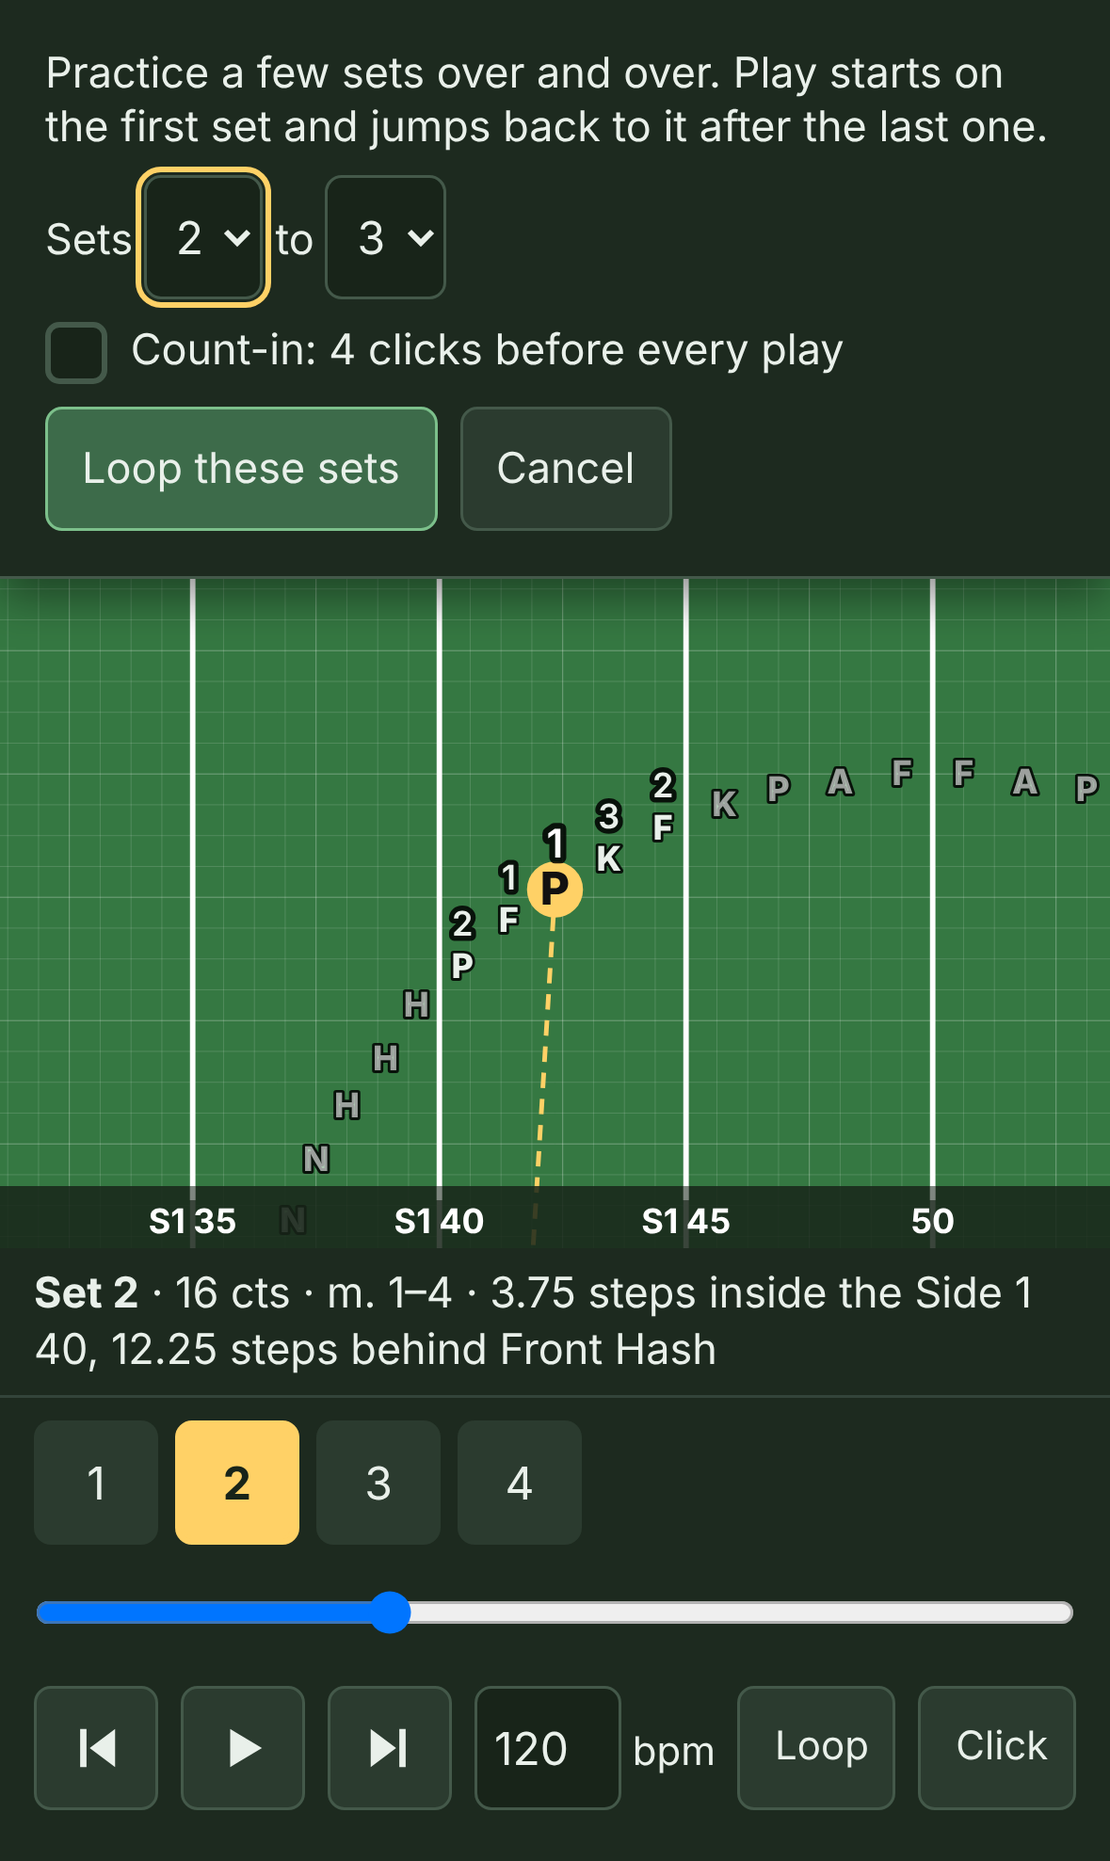
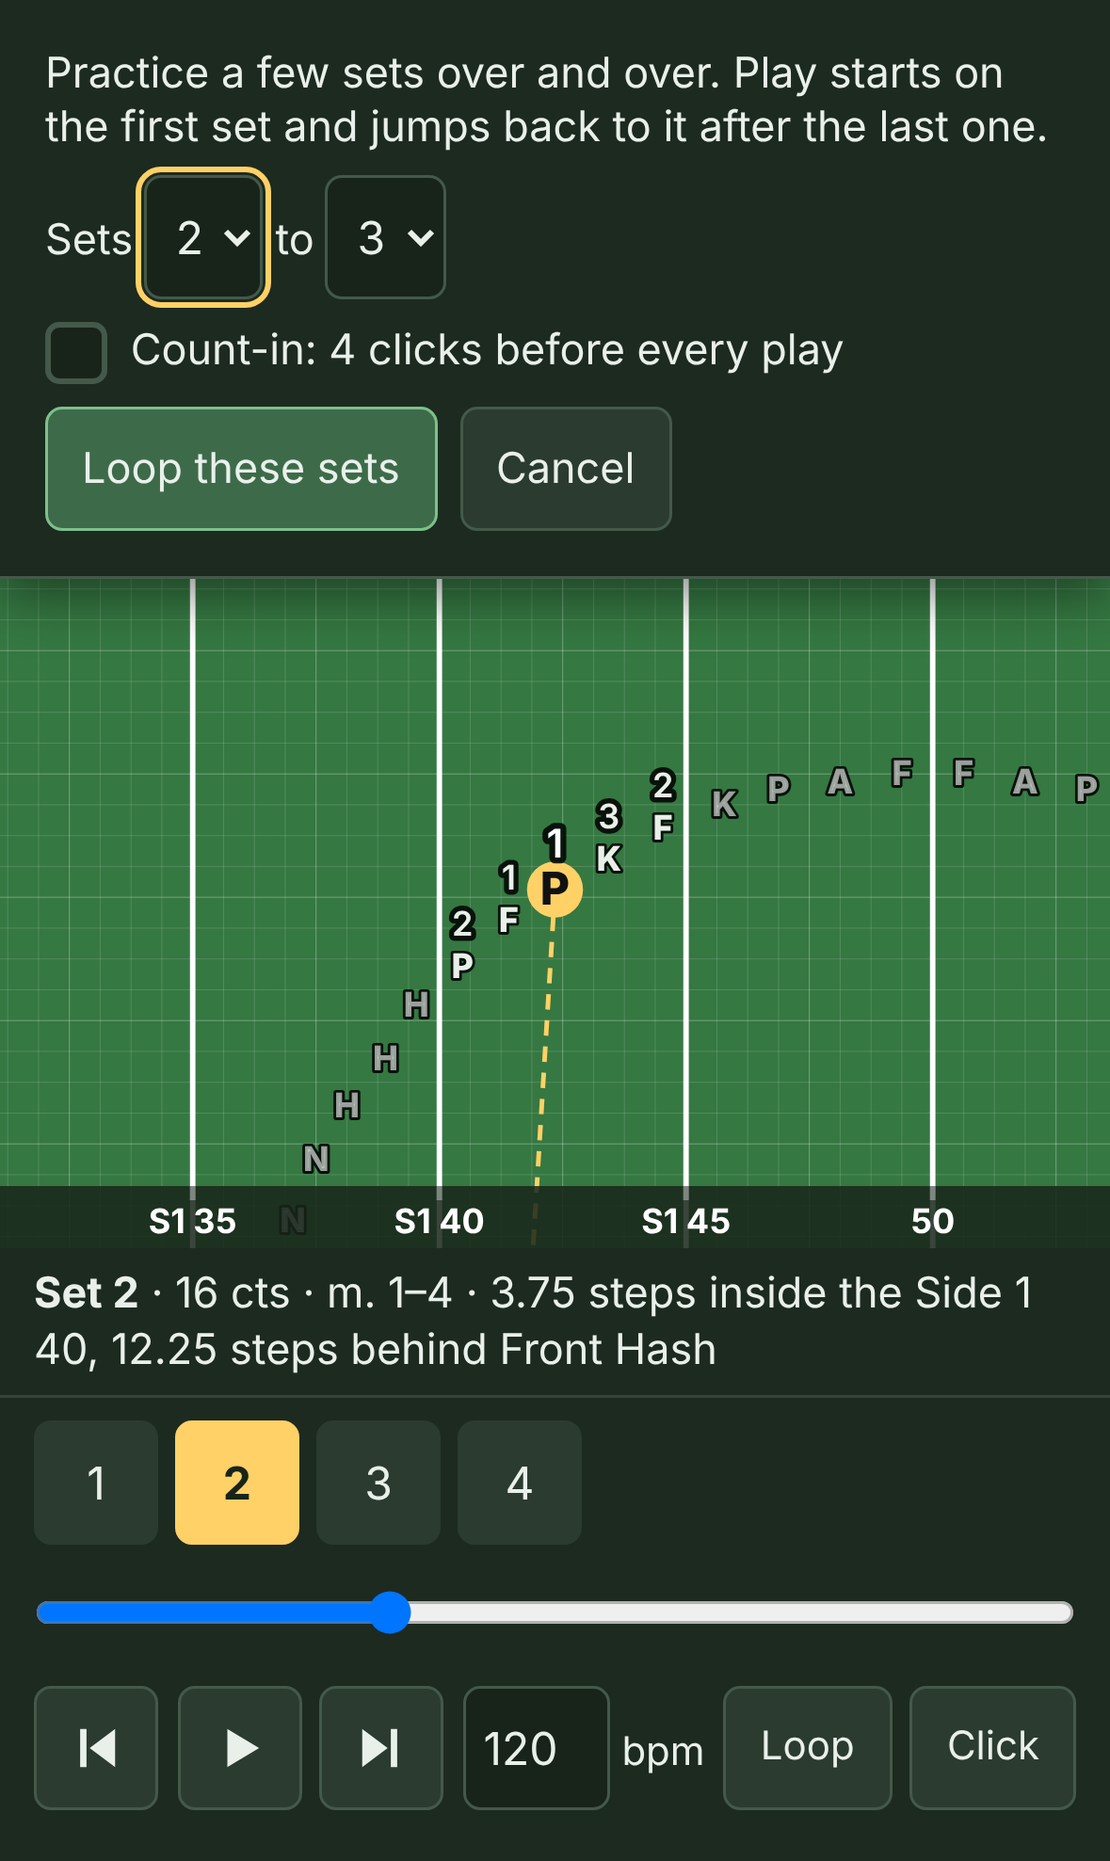
A first accessibility pass: screen reader and big text
- Editor: menu panels are labeled regions (not menus), and the save status
  button's name includes its visible words. axe now reports nothing on the
  phone view or the editor, in both modes.
- Phone at 200% and 300% text (Safari's aA): rows wrap instead of running
  off screen, and the student's name always shows. Normal size unchanged.
- VoiceOver: My dots cards read with pauses and "16 counts, measures 1 to 4";
  the name button says "Who are you? G6"; the field is described.

Claude-Session: https://claude.ai/code/session_012ak5ZU6YMQLnq6c3SxmXJ2

diff --git a/app/index.html b/app/index.html
@@ -109,7 +109,7 @@
       /* Phone header: the show's title on its own line (full contrast, up to two lines), then the big "who are you" button. */
       /* Room at the top: newer iOS blurs a band just below the status bar (over the page), which blurred the title. */
       .perform-bar { display: flex; flex-direction: column; gap: 6px; padding: 24px 12px 8px; flex-shrink: 0; }
-      .perform-titlebar { display: flex; align-items: center; gap: 8px; }
+      .perform-titlebar { display: flex; flex-wrap: wrap; align-items: center; gap: 8px; } /* wraps only with big text (Safari's aA), so nothing slides off the edge */
       .backup-note { position: absolute; top: 8px; left: 50%; transform: translateX(-50%); z-index: 5; width: min(560px, calc(100% - 32px)); display: flex; flex-wrap: wrap; gap: 8px; align-items: center; padding: 10px 12px; background: var(--bg); border: 1px solid var(--warn); border-radius: 8px; box-shadow: var(--raise); font-size: 14px; } /* floats over the field, so the field never resizes */
       .backup-note > span { flex: 1 1 260px; }
       /* Zoom controls in the field's top-right corner: on a solid panel so they read over turf or grid. */
@@ -119,7 +119,7 @@
       .perform-shows { font: inherit; font-weight: 600; max-width: 100%; min-height: 44px; } /* the show picker: big enough to tap */
       .perform-add { position: fixed; top: 0; left: 0; right: 0; z-index: 20; display: grid; gap: 8px; padding: 16px; font-size: 15px; background: var(--bg); border-bottom: 1px solid var(--line-strong); box-shadow: var(--raise); } /* over the field: opening it doesn't resize the field */
       .perform-add > button { justify-self: start; }
-      .perform-title { flex: 1; min-width: 0; font-size: 15px; font-weight: 600; overflow: hidden; display: -webkit-box; -webkit-line-clamp: 2; -webkit-box-orient: vertical; overflow-wrap: anywhere; }
+      .perform-title { flex: 1 1 80px; min-width: 0; font-size: 15px; font-weight: 600; overflow: hidden; display: -webkit-box; -webkit-line-clamp: 2; -webkit-box-orient: vertical; overflow-wrap: anywhere; }
       .who-button { display: flex; align-items: center; justify-content: space-between; gap: 8px; width: 100%; min-height: 44px; font-size: 17px; text-align: left; }
       .who-current { overflow: hidden; text-overflow: ellipsis; white-space: nowrap; }
       /* The "who are you" sheet: whole screen on a phone, a centered panel on anything wider. */
@@ -149,9 +149,9 @@
       .perform-field { position: relative; flex: 1; min-height: 0; order: 1; }
       .perform-side { display: contents; }
       .perform-bar { order: 0; } .perform-line { order: 2; } .perform-dots { order: 2; } .perform-controls { order: 3; } .perform-meta { order: 4; }
-      .perform-view { flex: none; font-size: 14px; padding: 6px 10px; min-height: 44px; } /* Follow my dot, From the press box: beside the title and the who button, not over the field */
-      .perform-who { display: flex; gap: 6px; }
-      .perform-who .who-button { flex: 1; min-width: 0; }
+      .perform-view { flex: none; max-width: 100%; font-size: 14px; padding: 6px 10px; min-height: 44px; } /* Follow my dot, From the press box: beside the title and the who button, not over the field */
+      .perform-who { display: flex; flex-wrap: wrap; gap: 6px; }
+      .perform-who .who-button { flex: 1 1 140px; min-width: 0; } /* never squeezed so small that the name disappears; the switch wraps under it instead */
       .perform-reset { position: absolute; top: 8px; right: 8px; font-size: 14px; }
       .perform-plain { display: block; font-size: 14px; }
       .perform-countin { position: absolute; inset: 0; display: grid; place-items: center; font-size: 140px; font-weight: 800; color: var(--gold-fill); text-shadow: 0 0 6px #000, 0 2px 12px #000; pointer-events: none; } /* the count-in's 4-3-2-1, over the field */
@@ -200,7 +200,7 @@
       .dot-head > span { opacity: 0.8; }
       .dot-coord { font-size: 17px; }
       .dot-small { font-size: 14px; }
-      .perform-pane { display: flex; flex: none; }
+      .perform-pane { display: flex; flex: none; flex-wrap: wrap; max-width: 100%; }
       .perform-pane button { min-height: 44px; font-size: 14px; padding: 6px 10px; }
       .perform-pane button:first-child { border-top-right-radius: 0; border-bottom-right-radius: 0; }
       .perform-pane button:last-child { border-top-left-radius: 0; border-bottom-left-radius: 0; margin-left: -1px; }
@@ -217,7 +217,7 @@
       .perform-sets[data-more=both], .fade-x[data-more=both] { -webkit-mask-image: linear-gradient(to right, transparent, #000 48px, #000 calc(100% - 48px), transparent); mask-image: linear-gradient(to right, transparent, #000 48px, #000 calc(100% - 48px), transparent); }
       .perform-sets button { flex: none; min-width: 44px; height: 44px; font-size: 16px; border: 2px solid transparent; }
       .perform-sets button[aria-pressed=true] { border-color: var(--gold); font-weight: bold; }
-      .perform-buttons { display: flex; gap: 8px; align-items: center; justify-content: space-between; }
+      .perform-buttons { display: flex; flex-wrap: wrap; gap: 6px; align-items: center; justify-content: space-between; } /* one row on a phone; wraps with big text */
       @media (max-width: 360px) { .perform-buttons { gap: 4px; } .perform-buttons button { padding-left: 8px; padding-right: 8px; } .perform-bpm { display: none; } } /* an iPhone SE: the whole row fits */
       .perform-empty { padding: 24px; max-width: 32em; margin: auto; }
       /* On its side, the field takes the left and gets the whole height; everything else scrolls in one column on the right,

diff --git a/src/perform/Perform.tsx b/src/perform/Perform.tsx
@@ -506,16 +506,18 @@ export function Perform() {
           {rows.map((r) => (
             <li key={r.index}>
               <button className="dot-row" aria-current={r.index === cur ? 'step' : undefined} onClick={() => { setPlaying(false); setT(starts[r.index]); }}>
-                <span className="dot-head"><strong>{tr('Set {name}', { name: r.set })}</strong>
-                  <span>{[r.counts != null ? tr('{n} cts', { n: r.counts }) : '', r.measures ? tr('m. {m}', { m: r.measures }) : ''].filter(Boolean).join(' · ')}</span></span>
-                <span className="dot-coord">{r.side}</span>
-                <span className="dot-coord">{r.front}</span>
+                {/* The hidden ". " and ": " give VoiceOver pauses between the card's parts; on screen they're laid out apart instead. */}
+                <span className="dot-head"><strong>{tr('Set {name}', { name: r.set })}</strong><span className="sr-only">. </span>
+                  <span><span aria-hidden="true">{[r.counts != null ? tr('{n} cts', { n: r.counts }) : '', r.measures ? tr('m. {m}', { m: r.measures }) : ''].filter(Boolean).join(' · ')}</span>
+                    <span className="sr-only">{[r.counts != null ? tr('{n} counts', { n: r.counts }) : '', r.measures ? tr('measures {m}', { m: r.measures.replace('–', ` ${tr('to')} `) }) : ''].filter(Boolean).join(', ')}{r.counts != null && '. '}</span></span></span>
+                <span className="dot-coord">{r.side}</span><span className="sr-only">. </span>
+                <span className="dot-coord">{r.front}</span><span className="sr-only">. </span>
                 {/* The move in plain words, with the step size in parentheses: "smaller step size than normal (10.4-to-5), moving forward". */}
-                {r.steps && <span className="dot-small">{stepWords(r.steps.per5)} (<span style={{ color: STEP_TEXT[r.steps.tier] }}>{fmtStep(r.steps.per5, lang)}</span>){r.way ? `, ${r.way}` : ''}</span>}
-                {r.held && <span className="dot-small">{tr('Hold (same spot as set {name})', { name: show.sets[r.index - 1].name })}</span>}
-                {r.hold && <span className="dot-small">{tr('hold {w}, move {m}', { w: r.hold.wait, m: r.hold.move })}{r.hold.after ? `, ${tr('hold {w}', { w: r.hold.after })}` : ''}</span>}
-                {r.cue && <span className="dot-small"><span className="perform-k">{tr('My notes')}</span>{r.cue}</span>}
-                {r.note && <span className="dot-small"><span className="perform-k">{tr('Ensemble')}</span>{r.note}</span>}
+                {r.steps && <span className="dot-small">{stepWords(r.steps.per5)} (<span style={{ color: STEP_TEXT[r.steps.tier] }}>{fmtStep(r.steps.per5, lang)}</span>){r.way ? `, ${r.way}` : ''}<span className="sr-only">. </span></span>}
+                {r.held && <span className="dot-small">{tr('Hold (same spot as set {name})', { name: show.sets[r.index - 1].name })}<span className="sr-only">. </span></span>}
+                {r.hold && <span className="dot-small">{tr('hold {w}, move {m}', { w: r.hold.wait, m: r.hold.move })}{r.hold.after ? `, ${tr('hold {w}', { w: r.hold.after })}` : ''}<span className="sr-only">. </span></span>}
+                {r.cue && <span className="dot-small"><span className="perform-k">{tr('My notes')}<span className="sr-only">: </span></span>{r.cue}<span className="sr-only">. </span></span>}
+                {r.note && <span className="dot-small"><span className="perform-k">{tr('Ensemble')}<span className="sr-only">: </span></span>{r.note}</span>}
               </button>
               {r.bends && <button className="dot-watch" onClick={() => watchMove(r.index)}>▶ {tr('Watch the move into set {name}', { name: r.set })}</button>}
             </li>
@@ -567,7 +569,7 @@ export function Perform() {
       <div className="perform-meta">{meta}</div>
       </div>
       <div className="perform-field">
-        <canvas ref={canvasRef} aria-label={tr('Field')} style={{ width: '100%', height: '100%', display: 'block', touchAction: 'none' }}
+        <canvas ref={canvasRef} role="img" aria-label={tr('The drill on the field. Your set and spot are written out in the line with it.')} style={{ width: '100%', height: '100%', display: 'block', touchAction: 'none' }}
           onPointerDown={(e) => {
             e.currentTarget.setPointerCapture(e.pointerId);
             touches.current.set(e.pointerId, { x: e.clientX, y: e.clientY });

diff --git a/src/ui/Toolbar.tsx b/src/ui/Toolbar.tsx
@@ -231,8 +231,8 @@ export function confirmDelete(show: Show, ids: string[]): boolean {
 }
 
 /** A toolbar button that opens a small panel below it. Closes on a click elsewhere or Esc (unless `keepOpen`). */
-export function Menu({ label, name, title, disabled, keepOpen, pressed, openNow, main, children }: {
-  label: ReactNode; name?: string; title: string; disabled?: string; keepOpen?: boolean; pressed?: boolean; children: (close: () => void) => ReactNode;
+export function Menu({ label, name, panelName, title, disabled, keepOpen, pressed, openNow, main, children }: {
+  label: ReactNode; name?: string; panelName?: string; title: string; disabled?: string; keepOpen?: boolean; pressed?: boolean; children: (close: () => void) => ReactNode;
   main?: { onClick: () => void; title: string; disabled?: boolean }; // a split button: the label does this, and only the caret opens the panel
   openNow?: number; // changing it (to more than 0) opens the panel, as if its button were clicked
 }) {
@@ -269,7 +269,7 @@ export function Menu({ label, name, title, disabled, keepOpen, pressed, openNow,
         title={disabled ? `${title} (${disabled})` : title} onClick={() => setOpen(!open)}>
         {label} <span aria-hidden className="caret">▾</span>
       </button>}
-      {shown && createPortal(<div ref={panel} className="tb-menu-panel" role="menu" aria-label={name ?? String(label)} style={at ?? { visibility: 'hidden' }}>{children(() => setOpen(false))}</div>, document.body)}
+      {shown && createPortal(<div ref={panel} className="tb-menu-panel" role="region" aria-label={panelName ?? name ?? (typeof label === 'string' ? label : title)} style={at ?? { visibility: 'hidden' }}>{children(() => setOpen(false))}</div>, document.body)}
     </div>
   );
 }

diff --git a/src/App.tsx b/src/App.tsx
@@ -1176,7 +1176,7 @@ export function App() {
         status={<>
         {/* Is my work safe: this browser, a file, and the phones, a line each, pinned to the bottom of the sidebar (Jason). */}
         <span className={saved.attention ? 'save-chip attention' : 'save-chip'}>
-          <Menu label={<span className="save-chip-text">{saved.label.split(' · ').map((l) => <span key={l}>{l}</span>)}</span>} name="Save status" title={`${saved.label}. Click for what each part means, and to save or publish.`}>{(close) => (
+          <Menu label={<span className="save-chip-text">{saved.label.split(' · ').map((l) => <span key={l}>{l}</span>)}</span>} panelName="Save status" title={`${saved.label}. Click for what each part means, and to save or publish.`}>{(close) => (
             <div style={{ display: 'flex', flexDirection: 'column', gap: 8, alignItems: 'stretch', maxWidth: 320, fontSize: 13 }}>
               <strong style={{ fontSize: 14 }}>This browser</strong>
               <span>{saved.browser}</span>

diff --git a/src/i18n/es.ts b/src/i18n/es.ts
@@ -62,6 +62,7 @@ export const ES: Record<string, string> = {
   'Offline: using the copy on this phone ({last})': 'Sin internet: usando la copia de este teléfono ({last})',
   "Couldn't check for updates: using the copy on this phone ({last})": 'No se pudo buscar actualizaciones: usando la copia de este teléfono ({last})',
   'Check for updates': 'Buscar actualizaciones',
+  'The drill on the field. Your set and spot are written out in the line with it.': 'El drill en el campo. Tu set y tu lugar están escritos en la línea que lo acompaña.',
   'How it works for performers (2 minutes)': 'Cómo funciona para los integrantes (2 minutos)',
 
   // Who are you?
@@ -90,6 +91,8 @@ export const ES: Record<string, string> = {
   'Set {name}': 'Set {name}',
   '{n} cts': '{n} tiempos',
   'm. {m}': 'c. {m}',
+  '{n} counts': '{n} tiempos',
+  'measures {m}': 'compases {m}',
   'count {c} of {n}': 'tiempo {c} de {n}',
   'My spot': 'Mi lugar',
   'Now': 'Ahora',

diff --git a/src/perform/WhoPicker.tsx b/src/perform/WhoPicker.tsx
@@ -31,6 +31,7 @@ export function WhoPicker({ show, value, staff, onPick }: { show: Show; value: s
   return (
     <>
       <button className="who-button" aria-haspopup="dialog" onClick={() => setOpen(true)}>
+        {(mine || value === staff) && <span className="sr-only">{tr('Who are you?')} </span>}{/* VoiceOver: "Who are you? G6", not just "G6" */}
         <span className="who-current">{current}</span><span aria-hidden="true">▾</span>
       </button>
       {open && (

diff --git a/DECISIONS.md b/DECISIONS.md
@@ -1614,3 +1614,9 @@ Each entry: timestamp, who decided, context, options considered, decision.
 - **Turns and points:** with a follow-the-leader group (or one performer's custom path, which is a group of one) selected, Tab and Shift+Tab step through its turns the same way they do a shape's handles, with the same gold ring, arrows, Enter, and Esc. The note names them "Follow the leader (G6 leads), turn 1" or "Custom path for P1, point 2". Tab only picks one when nothing else has focus, as with shapes. The shape handles and the turns share one piece of code.
 - **Props:** with a prop picked (and no performers), the arrow keys move it 1 step (Shift 4, Option/Alt half), and the note says where its center is. Each prop's box under **Props** in the sidebar can be reached with Tab, and focusing it picks the prop, so it can be picked without a mouse. Turning stays in the typed **Turned** box rather than adding X / Y / angle boxes, since the arrows and **Turned** already cover moving and turning (the X / Y / angle idea is dropped).
 
+## 2026-11-11: A first accessibility pass (screen reader and big text)
+- **Who:** Jason Tiller asked for it before testing on his phone; the fixes are Claude's calls (Jason can veto).
+- **How it was checked:** axe-core 4 (an automated checker) on the phone view (start, picking who you are, My dots, Field, the Loop panel) and the editor (main, Help, Review, Share, a blank show), in dark and light mode; the phone at 200% and 300% text, which is what Safari's aA does (it's page zoom, so it lays out like a narrower screen); and the accessibility tree VoiceOver reads.
+- **Fixes:** the editor's menu panels were marked as menus (which promises arrow-key menu behavior they don't have) and sat outside any landmark; they're now labeled regions. The save status button's label hid its visible words from voice control; it now uses them. On the phone, the title, who-you-are, and button rows wrap when the text is big instead of running off the screen, and the name button can't be squeezed until the name disappears (at normal size nothing moves; the play buttons' gap went from 8 to 6 pixels so the row still fits on one line). For VoiceOver: My dots cards get hidden pauses between their parts and say "16 counts, measures 1 to 4" instead of "16 cts, m. 1–4"; the name button reads "Who are you? G6"; the field is described and points to the line with the set and spot. Spanish for the new spoken text is in es.ts.
+- **Not changed:** the set-number strip under the field still scrolls sideways with a fade at the edge when it doesn't fit, by design.
+

diff --git a/docs/HOW-TO.md b/docs/HOW-TO.md
@@ -510,6 +510,8 @@ They can search by name, by dot (P4), or by section, and **Staff (whole band)** 
 
 **A click for rehearsal.** When there's no recording (or **♪ Music** is off), a **Click** button sits next to the tempo. It clicks every count while the drill plays, with a higher click where each set lands, so a section can run a move with the phone in a pocket or on a stand.
 
+**VoiceOver and big text.** The phone view works with VoiceOver, the iPhone's screen reader: each **My dots** card reads in order with pauses ("Set 2. 16 counts, measures 1 to 4. Splitting 35 and 40 on Side 2. 14 steps behind Front Sideline…"), the name button says "Who are you? G6," and the field says its set and spot are in the line with it. With Safari's **aA** text size turned up (up to 300%), the buttons wrap onto more lines instead of running off the screen, and the student's name always shows.
+
 **Several shows on one phone.** If your Opener, Ballad, Drum Feature, and Closer are separate files, send each one's link. Every link a student opens is added to the list on their phone instead of replacing what's there. The show's title at the top of the screen is a menu: tap it and pick another show to switch. Each show remembers who they are, and a new show starts on the same dot (B5 in the Opener starts as B5 in the Ballad). Opening a link for a show that's already on the phone (an updated version of the same hosted link, or a new share link of the same show) replaces it in place. Two different shows that happen to have the same title are kept apart. Each show has its own permanent id, made when the show is started, so the copy of the Opener on a phone knows it's your Opener and not another band's. **＋ Add a show…** in the same menu opens a box to paste a link or **Scan QR code**, and **Remove this show…** takes the open show off the phone. A phone keeps up to 12 shows.
 
 **In Spanish.** On a phone set to Spanish, the performer view is in Spanish, coordinates included ("3 pasos adentro de la 45 del Lado 2"). **Español** or **English**, at the bottom of the who-are-you list and on the start screen, switches it. The front page has a Spanish version too (freeformdrill.org/es/). The editor and this guide are still in English. The Spanish is a first draft: if you direct a band in Spanish, please tell me how your band says the drill terms.

diff --git a/PLAN.md b/PLAN.md
@@ -84,7 +84,8 @@
 - ✅ Shape handles by keyboard (Jason chose Tab through every handle): Tab and Shift+Tab step through the open shape's handles with a gold ring and a spoken name and spot, arrows move 1, 4, or half a step, Enter keeps, Esc puts back.
 - ✅ One palette for everything (2026-11-11): shadows (two sizes), dialog backdrops, see-through overlays, and the field's own ink are named in `palette.ts`, with softer light-mode shadows; a test fails on any loose color.
 - ✅ The same for follow-the-leader turns and custom path points (Tab through them with the group selected), and props (arrow keys move the picked prop; Tab reaches each prop's box in the sidebar to pick it; **Turned** takes a typed angle).
-- Still to do (accessibility): a check with VoiceOver, large text, and in sunlight on real phones.
+- ✅ A first accessibility pass (2026-11-11): an automated check (axe) of the phone view and the editor, both modes, now clean; the phone at 200% and 300% text (Safari's aA) no longer pushes buttons off screen or hides the student's name; My dots cards read with pauses and "16 counts, measures 1 to 4" for VoiceOver.
+- Still to do (accessibility): Jason's check on a real phone: VoiceOver, Safari's aA at 200% and 300%, and in sunlight.
 
 ## From the 2026-11-10 review
 Claude went through the docs, ran the tests, and clicked through the editor and the phone view (desktop, iPhone upright, iPhone on its side, all emulated). Jason approved the list, and the in-repo items were built the same day (✅ below). Still to do: the upload service, video export, current Pyware files, Spanish, and getting the word out.
